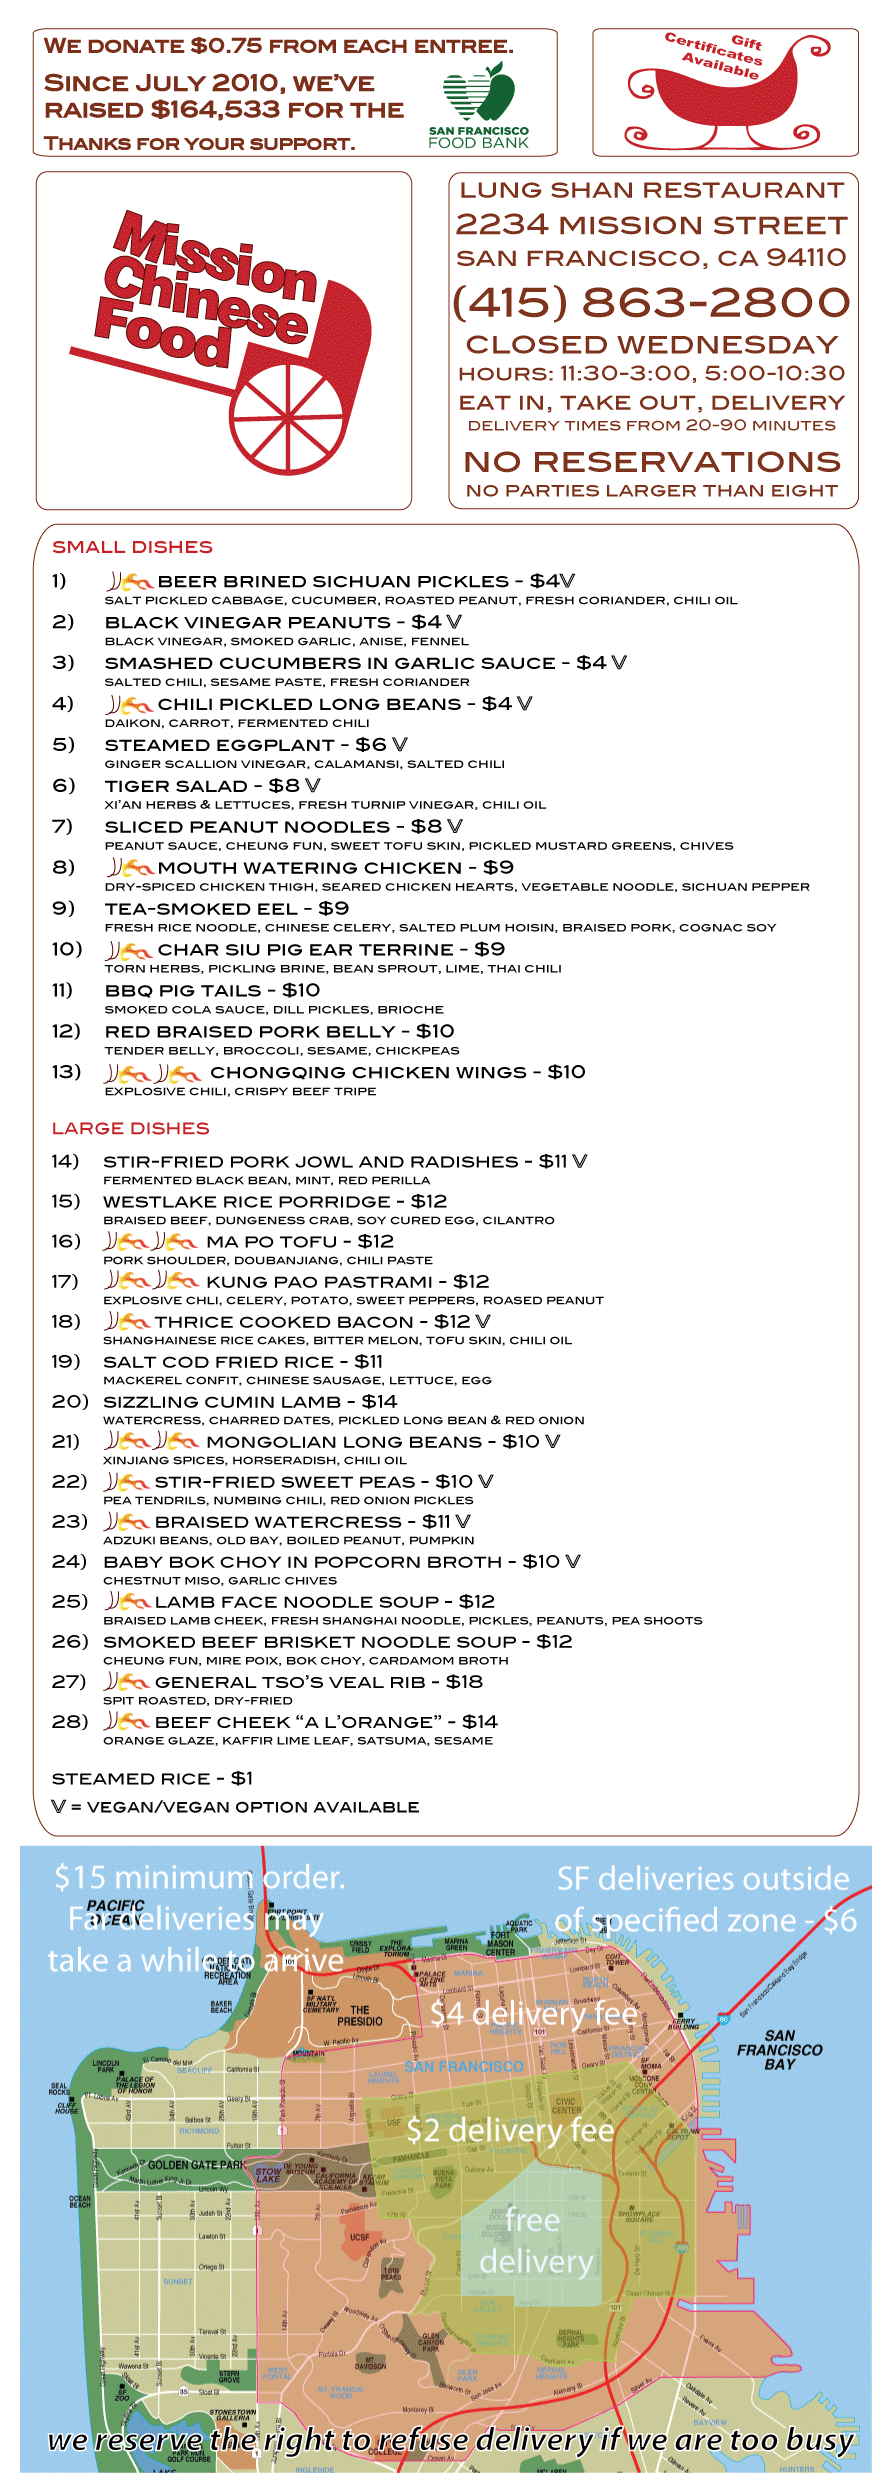
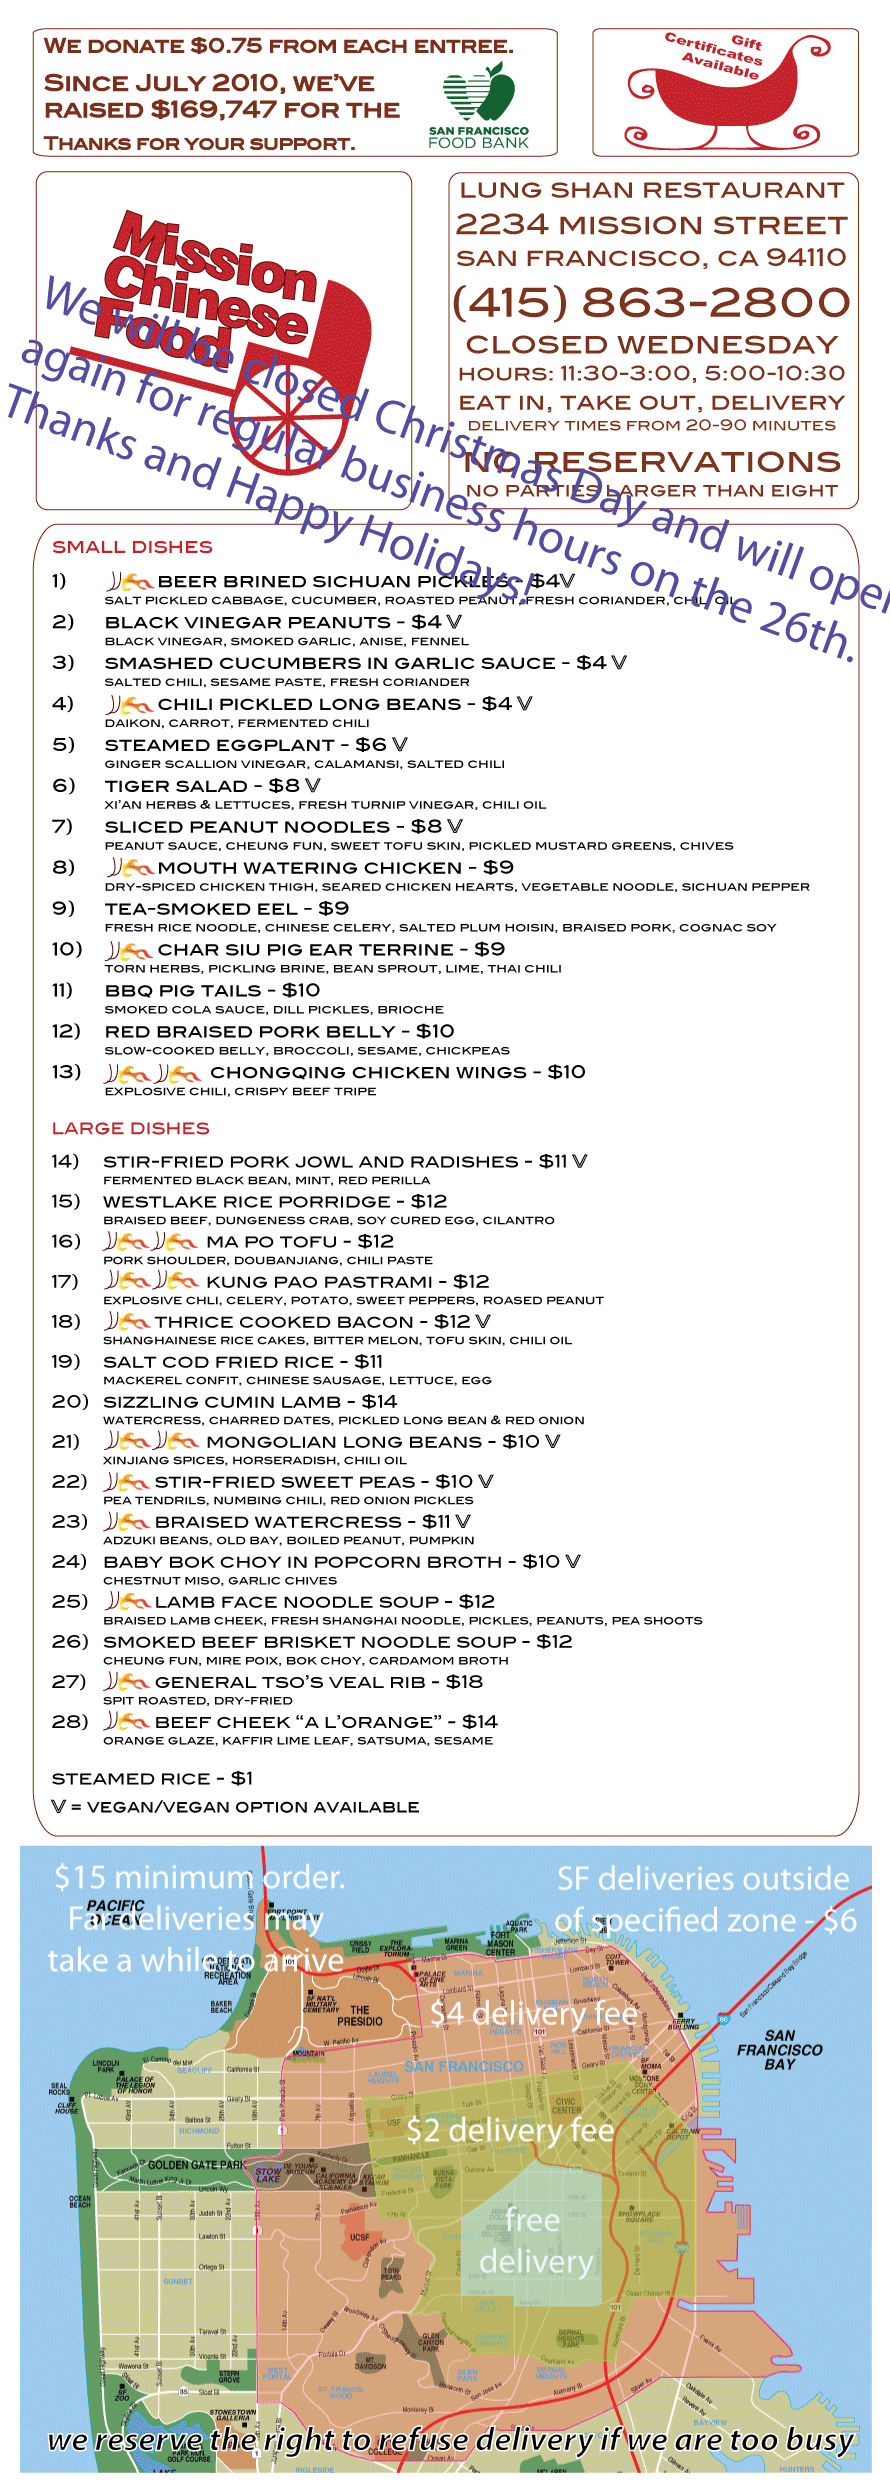
Christmas hours

Changed region(s): [[0.0, 0.0928, 1.0, 0.2783], [0.2124, 0.0309, 0.4551, 0.0618], [0.7584, 0.0309, 0.8798, 0.0618]]

diff --git a/static/css/base.css b/static/css/base.css
@@ -1,15 +1,25 @@
 @font-face {
-	font-family: BlairITCRegular;
-	src: url('/static/fonts/ufonts.com_blair-itc-medium1-webfont.eot');
-	src: url('/static/fonts/ufonts.com_blair-itc-medium1-webfont.eot?#iefix') format('embedded-opentype'),
-	url('/static/fonts/ufonts.com_blair-itc-medium1-webfont.woff') format('woff'),
-	url('/static/fonts/ufonts.com_blair-itc-medium1-webfont.ttf') format('truetype'),
-	url('/static/fonts/ufonts.com_blair-itc-medium1-webfont.svg#BlairITCRegular') format('svg');
-	font-weight: normal;
-	font-style: normal;
+    font-family: BlairITCRegular;
+    src: url('/static/fonts/ufonts.com_blair-itc-medium1-webfont.eot');
+    src: url('/static/fonts/ufonts.com_blair-itc-medium1-webfont.eot?#iefix') format('embedded-opentype'),
+    url('/static/fonts/ufonts.com_blair-itc-medium1-webfont.woff') format('woff'),
+    url('/static/fonts/ufonts.com_blair-itc-medium1-webfont.ttf') format('truetype'),
+    url('/static/fonts/ufonts.com_blair-itc-medium1-webfont.svg#BlairITCRegular') format('svg');
+    font-weight: normal;
+    font-style: normal;
+}
+body {
+    color: #111;
+    font-family: BlairITCRegular, Helvetica, sans-serif;
+    font-size: 11px;
+    line-height: 1.5;
+    margin: 2em auto;
+    padding:0;
+    position:relative;
+    word-spacing: 2px;
 }
 img {
-	border: 0;
+    border: 0;
 }
 #container {
     background: transparent url('/static/img/mcfmap.jpg') no-repeat 0 0;
@@ -34,21 +44,52 @@ img {
     top: 130px;
 }
 #deathstar { 
-	background:transparent url('/static/img/smalldeathstar.png') no-repeat 0 0;
-	display:none;
-	height:144px;
-	position:absolute; 
-	width:148px;
+    background:transparent url('/static/img/smalldeathstar.png') no-repeat 0 0;
+    display:none;
+    height:144px;
+    position:absolute; 
+    width:148px;
 }
 #footer {
-	color: #111;
-	font-family: BlairITCRegular, Helvetica, sans-serif;
-	font-size: 11px;
-	line-height: 1.5;
-	margin: 0 auto 1em;
-	word-spacing: 2px;
-	text-align: center;
+    margin: 0 auto 1em;
+    text-align: center;
 }
 .red {
-	color: #c23447;
+    color: #c23447;
+}
+#menu {
+    margin:0 auto;
+    text-align: center;
+}
+#menu .section {
+    margin-bottom: 2em;
+}
+.ny #menu {
+    width:849px;
+}
+.sf #menu {
+    width:881px;
+}
+#ninja { 
+    position:absolute; 
+    background:transparent url('/static/img/ninja.png') no-repeat 0 0;
+    width:150px;
+    height:112px;
+    display:none;
+}
+.medium-text {
+    font-size: 2em;
+    font-weight: bold;
+}
+.well {
+    min-height: 2em;
+    padding: 1em;
+    margin-bottom: 1em;
+    border: 2px solid #c23447;
+    -webkit-border-radius: 12px;
+    -moz-border-radius: 12px;
+    border-radius: 12px;
+}
+.sf .well {
+    margin: 1em;
 }

diff --git a/ny/index.html b/ny/index.html
@@ -8,32 +8,7 @@
 <meta name="description" content="Mission Chinese Food New York serves Americanized Oriental Food and is located in the Lower East Side at 154 Orchard Street." /> 
 <meta name="keywords" content="Mission Chinese Food, chinese food, chinese cuisine, asian food, asian cuisine, oriental food, oriental cuisine, mapo tofu, Anthony Myint, Danny Bowien, Mission Street Food, charity, SF Food Bank, San Francisco, Mission, Lung Shan, LES, NY, Food Bank for New York City, Food Bank for NYC" /> 
  
-<link rel="stylesheet" href="/static/css/base.css" type="text/css" />
-
-<style>
-
-body {
-    position:relative;
-    padding:0;
-    margin: 1em 0 0 0;
-}
-#menu {
-	margin:0 auto;
-	text-align: center;
-	width:881px;
-}
-#ninja { 
-	position:absolute; 
-	background:transparent url('/static/img/ninja.png') no-repeat 0 0;
-	width:150px;
-	height:112px;
-	display:none;
-}
-.well {
-    margin-bottom: 2em;
-}
-
-</style>
+<link rel="stylesheet" href="/static/css/base.css?v=20121224" type="text/css" />
 
 <script type="text/javascript">
 
@@ -50,11 +25,12 @@ body {
 </script>
 
 </head>
-<body>
+<body class="ny">
 
 <div id="menu">
-    <img class="well" src="/static/img/nymenu1.png?v=6" alt="Menu"  width="849" height="1156" />
-    <img class="well" src="/static/img/nymenu2.png?v=6" alt="Menu"  width="849" height="1093" />
+    <img class="section" src="/static/img/nyclosedsign.png?v=20121224" alt="Menu"  width="849" height="183" />
+    <img class="section" src="/static/img/nymenu1.png?v=6" alt="Menu"  width="849" height="1156" />
+    <img class="section" src="/static/img/nymenu2.png?v=6" alt="Menu"  width="849" height="1093" />
     <p id="footer">154 ORCHARD ST NY NY 10002 BETWEEN RIVINGTON &amp; STANTON ST</p>
 </div>
 

diff --git a/sf/index.html b/sf/index.html
@@ -8,25 +8,7 @@
 <meta name="description" content="Mission Chinese Food serves Americanized Oriental Food and is located at Lung Shan Restaurant in the Mission, San Francisco." /> 
 <meta name="keywords" content="Mission Chinese Food, chinese food, chinese cuisine, asian food, asian cuisine, oriental food, oriental cuisine, mapo tofu, Anthony Myint, Danny Bowien, Mission Street Food, charity, SF Food Bank, San Francisco, Mission, Lung Shan, LES, NY, Food Bank for New York City, Food Bank for NYC" /> 
  
-<style>
-
-body { position:relative; padding:0; margin:0; }
-#menu {
-       margin:0 auto;
-       text-align: center;
-}
-#ninja { 
-	position:absolute; 
-	background:transparent url('/static/img/ninja.png') no-repeat 0 0;
-	width:150px;
-	height:112px;
-	display:none;
-}
-.well {
-    margin-bottom: 2em;
-}
-
-</style>
+<link rel="stylesheet" href="/static/css/base.css?v=20121224" type="text/css" />
 
 <script type="text/javascript">
 
@@ -43,10 +25,10 @@ body { position:relative; padding:0; margin:0; }
 </script>
 
 </head>
-<body>
+<body class="sf">
 
 <div id="menu">
-    <img class="well" src="/static/img/sfmenu.png?v=1" alt="Menu"  width="890" height="2490" />
+    <img class="section" src="/static/img/sfmenu.png?v=20121224" alt="Menu"  width="890" height="2490" />
 </div>
 
 <div id="ninja"></div>
